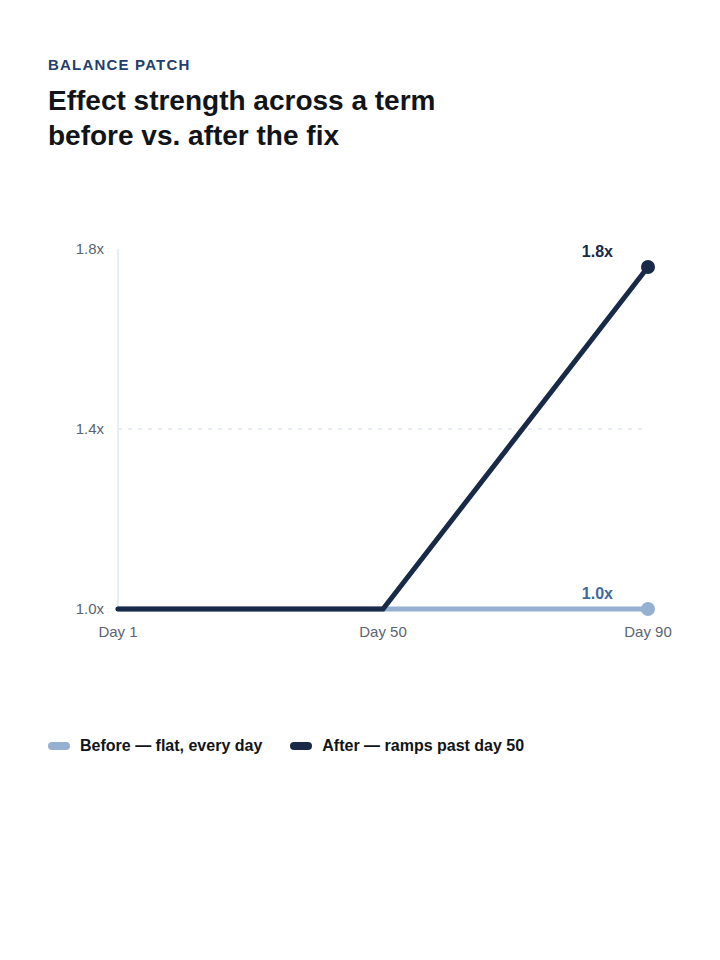
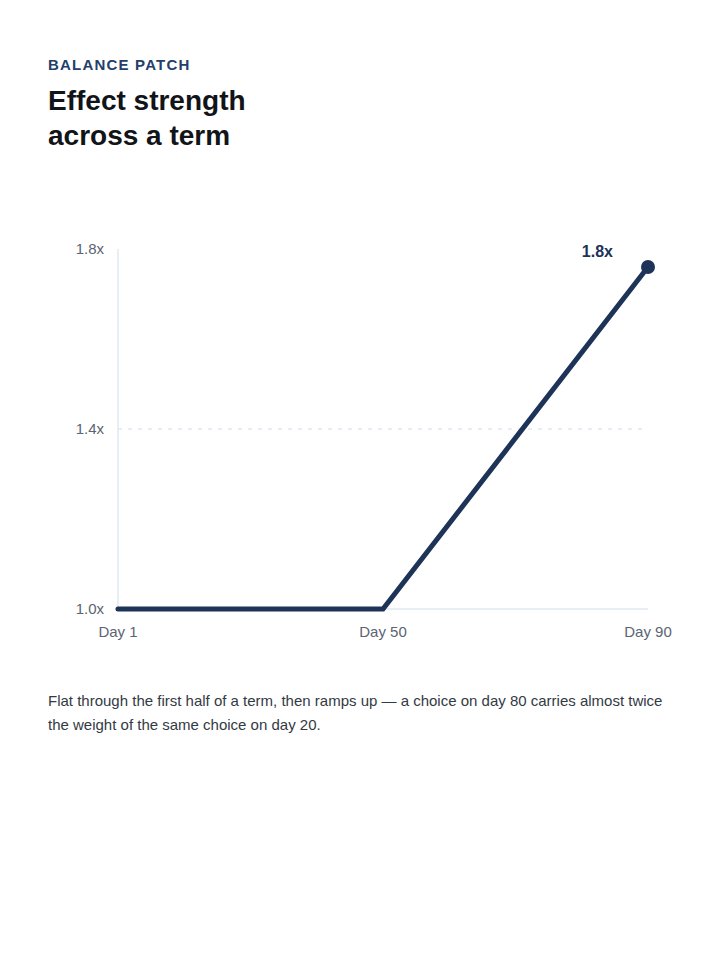
Trim QuORuM's page: current-state-only charts, fewer challenges, tighter story
QuORuM's content had grown to roughly 2x ReelCast's and IoT's (measured
~1091 vs 632/517 words) after the last few additions. Cut it back down:

- Charts now show only the current, present-day state instead of a
  before/after comparison — a single-line effect curve and a single
  71% headline stat, not two-series comparisons.
- Removed 2 of 4 challenges (Thai line-wrap, card-repetition dampening)
  to match ReelCast's count; kept the two strongest and most specific
  ones (the dread-layer spiral, the playtesting/simulation fix).
- "The story underneath" trimmed from 4 paragraphs to 3 and from 3
  illustrative screenshots to 2 (rumor + ending as bookends, dropping
  the mid-arc Stages codex shot).

Net: ~799 words in the details block, down from ~1091.

Claude-Session: https://claude.ai/code/session_01WhJbtzPMmwe9yLUUh72zaQ

diff --git a/src/data/resumeData.js b/src/data/resumeData.js
@@ -315,13 +315,11 @@ export const projects = [
         heading: "The story underneath",
         paragraphs: [
           "Underneath the daily committee grind runs one continuous story, and the game never marks it as separate — it's just more cards in the same shuffle, so noticing it happening is part of the experience.",
-          "It starts as a rumor: something out on the snow was \"born,\" and no two people telling it agree on how. Three competing origin stories circulate before the rumor even gets a name — the Himmavats. First a few hundred, spotted past the ridge. Then an offer to join, not a threat. Then the count jumps to the thousands, moving with no particular hurry.",
-          "What follows is quieter but heavier: another shelter, three ridges over, empty with its doors standing open. A visitor at the gate who says nothing and walks back into the white. A note tucked into the gate mechanism: \"There's room.\" The camp's own medic keeps private notes on what happens to the people who keep listening — Stage 1 is a bad night's sleep, laughed off. By Stage 4, they stop hearing you, and they walk out, calm, like they finally know where they're going.",
-          "However the 90-day term plays out, it resolves one of two ways depending on how much of this the chairperson actually pieced together and how the wall held — full spoilers are in the game itself, not here.",
+          "It starts as a rumor — something out on the snow was \"born\" — and grows into a group with a name, the Himmavats, then an invitation to join, then quieter and heavier signs: an empty shelter, a visitor at the gate who says nothing, a note that just reads \"There's room.\"",
+          "However the 90-day term plays out, it resolves one of two ways depending on how much of this the chairperson actually pieced together — full spoilers are in the game itself, not here.",
         ],
         beats: [
           { image: "/demos/quorum/story-beat-1-rumor.png", caption: "Turn 13 — one of three competing origin stories for what's out on the snow." },
-          { image: "/demos/quorum/story-beat-2-stages.png", caption: "The medic's private Codex notes, tracking Stage 1 through Stage 4." },
           { image: "/demos/quorum/story-beat-3-ending.png", caption: "One of two ways a term can end — told as a first-person send-off, not a verdict card." },
         ],
       },
@@ -354,16 +352,16 @@ export const projects = [
         ],
       },
       pipelineDetail: {
-        intro: "An earlier balance pass had already scaled every card's effect up 1.7x. A friend's playtest showed that still wasn't enough — here's the fix, and the data behind it.",
+        intro: "A friend's playtest showed that clicking through carelessly performed almost as well as reading and reacting. Here's how the engine makes choices carry real weight.",
         steps: [
           {
-            label: "Effects now sharpen after the midpoint",
-            description: "Every effect scales further past day 50, capped at 1.8x by day 90 — a choice on day 20 and a choice on day 80 no longer carry the same weight.",
+            label: "Effects sharpen after the midpoint",
+            description: "Every effect scales up past day 50, capped at 1.8x by day 90 — a choice on day 20 and a choice on day 80 don't carry the same weight.",
             image: "/demos/quorum/balance-curve.png",
           },
           {
             label: "Verified with a 500-run simulation",
-            description: "Simulating pure random clicking before and after the change: the early-failure rate rose from 50% to 71%, with zero crashes or stuck card draws in either run.",
+            description: "Simulating pure random clicking: 71% of runs now crash a meter before the day-90 ending, with zero crashes or stuck card draws.",
             image: "/demos/quorum/playtest-outcomes.png",
           },
         ],
@@ -387,19 +385,9 @@ export const projects = [
             "Layer-2 cards get more likely over time by design, but once the deck grew past 100 of them, an uncapped multiplier made snowblind pressure spiral out of control by turn 60 — runs stopped reaching the mundane committee cards at all. Fixed by capping the time-based multiplier at 2x instead of letting it grow unbounded.",
         },
         {
-          problem: "Thai text doesn't wrap the way English does.",
-          solution:
-            "Thai is written with no spaces between words, so the browser's default line-breaking either lets a whole sentence overflow or splits mid-word. Solved it with a build-time script that runs Thai copy through a word-segmentation library and inserts soft break points, so translated cards wrap exactly where a human reader would.",
-        },
-        {
-          problem: "The same high-weight cards kept resurfacing within one run.",
-          solution:
-            "A flat weighted draw let a handful of strong cards dominate a session, making runs feel repetitive. Added a dampening factor that lowers a card's weight every time it's already been seen in that run, on top of a short recent-history exclusion list, so the mix stays varied without touching the underlying weights that drive the difficulty curve.",
-        },
-        {
           problem: "A real playtester clicked through without reading and reached an ending anyway.",
           solution:
-            "An earlier pass had already scaled every effect up 1.7x globally to make choices matter more, but a 500-run simulation of pure random clicking showed it wasn't enough on its own: half of those runs (50%) still coasted all the way to the day-90 ending regardless of how badly they were played. The real gap was structural — nothing distinguished an early choice from a late one, and the term-ending check fires at day 90 no matter how engaged the run was. Fixed by scaling effect magnitude further, specifically after the midpoint of a term. Re-run the same 500-run simulation afterward: early-failure rate rose from 50% to 71%, with zero crashes or stuck card draws.",
+            "Root cause was structural: nothing distinguished an early choice from a late one, and the term-ending check fires at day 90 no matter how engaged the run was. Fixed by scaling effect magnitude up specifically after the midpoint of a term, so late-game choices carry real weight. Verified with a 500-run simulation of pure random clicking: 71% of runs now crash a meter before day 90, with zero crashes or stuck card draws.",
         },
       ],
       heroClip: "/demos/quorum/hero-swipe-loop.mp4",

diff --git a/src/pages/ProjectPage.jsx b/src/pages/ProjectPage.jsx
@@ -301,13 +301,13 @@ function ReelCastLayout({ project, details }) {
                   <p key={p}>{p}</p>
                 ))}
               </div>
-              <div className="mt-6 grid gap-6 sm:grid-cols-3">
+              <div className={`mt-6 grid gap-6 ${details.storyArc.beats.length >= 3 ? "sm:grid-cols-3" : "sm:grid-cols-2"}`}>
                 {details.storyArc.beats.map((beat) => (
                   <div key={beat.caption} className="flex flex-col gap-2">
                     <img
                       src={beat.image}
                       alt={beat.caption}
-                      className="aspect-[9/16] w-full rounded-xl border border-navy-100 object-cover dark:border-navy-800"
+                      className="aspect-[3/4] w-full rounded-xl border border-navy-100 object-cover dark:border-navy-800"
                     />
                     <p className="text-xs leading-relaxed text-ink-500 dark:text-navy-300">
                       {beat.caption}
